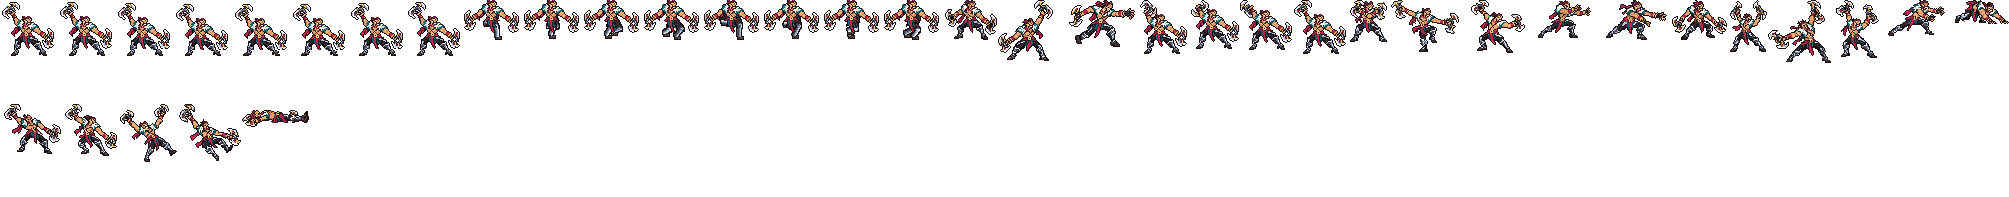
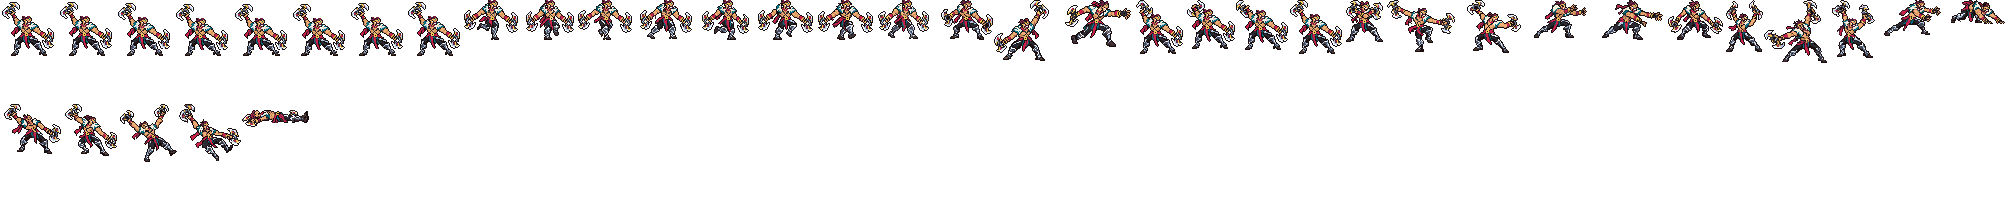
Draven: run = Codex's whole-figure redraw (cross-step), the design's head put back on every frame, run 8's far axe from run 4

Changed region(s): [[0.0309, 0.0, 0.9586, 0.3046], [0.0309, 0.5482, 0.1546, 0.7919]]

diff --git a/tools/art/fix_draven_strips.py b/tools/art/fix_draven_strips.py
@@ -281,6 +281,64 @@ def ribbons(d):
     return out
 
 
+# ---------------------------------------------------------------- the run Codex redrew whole (codex_run/)
+RUN2 = os.path.join(ROOT, "assets", "source", "draven", "codex_run", "1x")
+# design head (canvas rows, first/last column): hair crest, headband, face, moustache, beard down to the scarf
+HEAD_ROWS = {60: (57, 67), 61: (57, 67), 62: (57, 67), 63: (57, 67), 64: (59, 67), 65: (59, 66), 66: (60, 66),
+             67: (59, 66), 68: (58, 66)}
+GOLD = (0xF3, 0xCB, 0x57)
+AXE8 = ((78, 92), (29, 47), (1, 1))   # run 8's smeared far axe: rows, columns of run 4's, moved (dx, dy)
+
+
+def head_mask(d):
+    m = np.zeros(d.shape[:2], bool)
+    for y, (c0, c1) in HEAD_ROWS.items():
+        m[y, c0:c1 + 1] = True
+    return m & (d[..., 3] > 0)
+
+
+HAIR = {(0x74, 0x23, 0x42), (0x6B, 0x34, 0x3D), (0x42, 0x1D, 0x30), (0x9C, 0x34, 0x4C)}
+
+
+def band(a):
+    """Where the head is: (the hair crest's top row, the middle column of the hair in its top 4 rows), searched in
+    columns 56-78 (the design's raised axe ends at column 57; the run's axes hang lower, at the sides)."""
+    win = a[40:75, 56:79]
+    op = win[..., 3] > 0
+    rows = np.nonzero(op.any(1))[0]
+    top = rows.min()
+    hair = np.array([[tuple(int(v) for v in win[y, x, :3]) in HAIR and op[y, x] for x in range(win.shape[1])]
+                     for y in range(top, top + 4)])
+    xs = np.nonzero(hair)[1]
+    return 40 + top, 56 + xs.mean()
+
+
+def run2_frame(d, k):
+    """Codex's whole-figure run frame k with the design's own head put on Codex's (found by the headband), run 8's
+    smeared far axe replaced by run 4's, and the frame moved sideways so the head stands on the design's column."""
+    a = load(os.path.join(RUN2, f"run_{k + 1}.png"))
+    if k == 7:
+        b = load(os.path.join(RUN2, "run_4.png"))
+        (r0, r1), (c0, c1), (dx, dy) = AXE8
+        a[r0 + dy:r1 + dy + 1, c0 + dx:c1 + dx + 1] = 0
+        part = b[r0:r1 + 1, c0:c1 + 1]
+        m = part[..., 3] > 0
+        a[r0 + dy:r1 + dy + 1, c0 + dx:c1 + dx + 1][m] = part[m]
+    dr, dc = band(d)
+    fr, fc = band(a)
+    dy, dx = fr - dr, int(round(fc - dc))
+    # Codex's head out: the hair above the mantle, the face's columns down to the beard
+    for y in range(54 + dy, 63 + dy):
+        a[y, 55 + dx:71 + dx] = 0
+    for y in range(63 + dy, 69 + dy):
+        a[y, 58 + dx:68 + dx] = 0
+    hm = head_mask(d)
+    head = np.zeros_like(d)
+    head[hm] = d[hm]
+    a = over(a, shift(head, dx, dy))
+    return shift(a, -dx, 0)          # the head on the design's column: the body moves with it
+
+
 def run_frame(d, k, variant):
     arm, body = run_upper(d, variant)
     if LEGS == "rig":
@@ -311,7 +369,7 @@ def frame_of(d, src, variant):
     if isinstance(src, tuple) and src[0] == "spin":
         return spin(d, src[1])
     if isinstance(src, tuple) and src[0] == "run":
-        return run_frame(d, src[1], variant)
+        return run2_frame(d, src[1]) if variant == "C" else run_frame(d, src[1], variant)
     return load(os.path.join(SRC, f"{src}.png"))
 
 
@@ -320,7 +378,7 @@ def layout(n):
     return cols, -(-n // cols)
 
 
-def build(variant="M"):
+def build(variant="C"):
     d = load(DESIGN)
     return {tag: [(frame_of(d, src, variant), ms) for src, ms in rows] for tag, rows in TAGS.items()}
 
@@ -344,7 +402,7 @@ def write(sheet):
 
 def main():
     ap = argparse.ArgumentParser(description=__doc__, formatter_class=argparse.RawDescriptionHelpFormatter)
-    ap.add_argument("--run", default="M", choices=["M", "V"])
+    ap.add_argument("--run", default="C", choices=["C", "M", "V"])
     ap.add_argument("--review", help="write <tag>_<k>.png (128 x 128) here instead of the strips")
     a = ap.parse_args()
     sheet = build(a.run)

diff --git a/assets/source/draven/codex_run/HANDOFF.md b/assets/source/draven/codex_run/HANDOFF.md
@@ -1,0 +1,47 @@
+# 德莱文跑步重画交付
+
+本次按新的跑步包重新生成 8 张完整人物帧：头、身体、双臂、双斧和双腿一起绘制，不使用上一轮的上半身粘贴或腿部变形流程。使用内置 imagegen，逐帧生图并对不符合要求的结果进行生图修订。
+
+## 最终版本
+
+- 双斧低握在身体两侧；腿部保持黑裤、厚银蓝护胫、可见膝甲和深色靴子。
+- 第 1、5 帧后踢腿；第 2、6 帧摆腿；第 3、7 帧双腿收拢并交叉；第 4、8 帧前脚落地。
+- 每帧 100 ms，共 8 帧，循环 800 ms。
+- 所有交付 PNG：1024×1024，128×128 逻辑格，每格严格 8×8 纯色；透明度仅 0/255；颜色属于定稿 23 色。
+- 所有鞋底最低不透明像素均在逻辑第 99 行；第 100 行及以下完全透明。
+- 第 1、2、3、5、6、7 帧头尖至鞋底 40 格；第 4、8 帧落地时头尖下沉一格，为 39 格。这里如实保留生图结果，没有脚本平移或拉伸去凑数。
+
+## 原稿与处理证据
+
+最终 8 张原稿均为 1254×1254 透明 PNG，保存在 `raw/run_1.png` … `raw/run_8.png`。已和内置工具原始输出计算 SHA-256 比对，8 张一致，记录见 `provenance.json`。21 张较早的尝试保存在 `raw/alternatives/`，其中部分含品红背景和校准线；它们不是最终帧。
+
+最终 8 张只做了：同一整张画布按 128×128 网格中心取色、映射到定稿色板、透明度阈值二值化，再将每格输出为 8×8 方块。没有裁切后重新摆位、整体平移、局部缩放、拉伸、扭曲、粘贴上半身、手绘补腿或脚本调整靴子位置。
+
+`verify_processing.py` 会重新从最终原稿计算这些允许的处理，并逐像素比对交付 PNG，同时检查鞋底行；8 张全部通过。它使用同目录 `processing_rules.py`，运行需要 Pillow。
+
+## 文件说明
+
+- 根目录 `run_1.png` … `run_8.png`：最终帧。
+- `1x/`：128×128 逻辑像素版本。
+- `previews/run.gif`：100 ms/帧循环预览。
+- `previews/run_contact.png`：8 帧对照表。
+- `previews/run_vs_league.gif`：左为本次帧，右为提供的英雄联盟参考。预览底色与右侧参考线不属于最终资产。
+- `frames.json`、色板、检查记录、原稿指纹和核对脚本。
+- `selected-frames.json`：最终每帧对应的提示词来源。其他 prompts 文件保留各轮计划和实际修订文字；`generation-prompts.json` 中初始计划只有第 1、3 帧实际执行，其余帧随后使用 `redraw-prompts.json`。
+
+## 视觉审核说明
+
+已检查低握双斧、完整厚腿、交叉帧和落地帧。独立生图之间仍有轻微面部、斧刃和肩部轮廓变化；没有进行游戏内导入与实机动画验收。所有原稿、候选和对照预览均提供，便于审阅。
+
+## 逐帧读回
+
+| 文件 | 尺寸 | 头尖行 | 最低不透明行 | 头尖至鞋底格数 | 使用色数 |
+|---|---|---:|---:|---:|---:|
+| run_1.png | 1024×1024 | 60 | 99 | 40 | 22 |
+| run_2.png | 1024×1024 | 60 | 99 | 40 | 22 |
+| run_3.png | 1024×1024 | 60 | 99 | 40 | 22 |
+| run_4.png | 1024×1024 | 61 | 99 | 39 | 21 |
+| run_5.png | 1024×1024 | 60 | 99 | 40 | 22 |
+| run_6.png | 1024×1024 | 60 | 99 | 40 | 21 |
+| run_7.png | 1024×1024 | 60 | 99 | 40 | 21 |
+| run_8.png | 1024×1024 | 61 | 99 | 39 | 22 |
